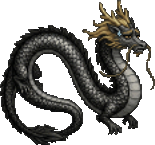
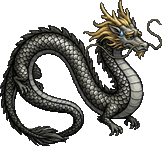
Eastern dragon: redrawn frames with full scales (B + hungry) and a full slither cycle by travelling sine wave over 16 slices

diff --git a/Assets/Scripts/Gameplay/Pet2DBody.cs b/Assets/Scripts/Gameplay/Pet2DBody.cs
@@ -108,8 +108,8 @@ namespace AdventureKing.Gameplay
                 {
                     float wave = Mathf.Sin(t * (moving ? 3.2f : 1.6f) + worldX * 1.6f);
                     lift = hungry ? 0.15f : HoverHeight + wave * (moving ? 0.24f : 0.1f);
-                    rot = hungry ? 0f : Mathf.Cos(t * (moving ? 3.2f : 1.6f) + worldX * 1.6f) * (moving ? 15f : 6f) * facing;
-                    sx = 1f + wave * 0.035f; sy = 1f - wave * 0.03f;
+                    rot = 0f; sx = 1f; sy = 1f;
+                    UpdateWave(hungry, moving, facing, t, worldX);          // the body slithers slice by slice
                     break;
                 }
                 default:
@@ -123,6 +123,42 @@ namespace AdventureKing.Gameplay
             Renderer.transform.localRotation = Quaternion.Euler(0f, 0f, rot);
             Renderer.transform.localScale = new Vector3(sx, sy, 1f);
             return lift;
+        }
+
+        // ---- Eastern dragon: the picture is cut into vertical slices (a runtime cut of the owner's sprite, nothing drawn) and a sine wave travels along the body: a full slither cycle
+        private const int WaveSlices = 16;
+        private Transform waveRoot;
+        private SpriteRenderer[] waveParts = new SpriteRenderer[0];
+        private Sprite waveSource;
+
+        private void UpdateWave(bool hungry, bool moving, int facing, float t, float worldX)
+        {
+            Sprite src = hungry && Hungry ? Hungry : Normal;
+            if (!src || !src.texture) { Renderer.enabled = true; return; }
+            if (waveSource != src)
+            {
+                if (waveRoot) Destroy(waveRoot.gameObject);
+                waveRoot = new GameObject("Wave").transform;
+                waveRoot.SetParent(Renderer.transform.parent, false);
+                Rect r = src.textureRect; float w = r.width / WaveSlices;
+                waveParts = new SpriteRenderer[WaveSlices];
+                for (int i = 0; i < WaveSlices; i++)
+                {
+                    var sp = Sprite.Create(src.texture, new Rect(r.x + i * w, r.y, w, r.height), new Vector2(0.5f, src.pivot.y / r.height), src.pixelsPerUnit, 0, SpriteMeshType.FullRect);
+                    var go = new GameObject("S" + i);
+                    go.transform.SetParent(waveRoot, false);
+                    go.transform.localPosition = new Vector3(((i + 0.5f) * w - src.pivot.x) / src.pixelsPerUnit, 0f, 0f);
+                    var sr = go.AddComponent<SpriteRenderer>();
+                    sr.sprite = sp; sr.sharedMaterial = Renderer.sharedMaterial; sr.sortingLayerID = Renderer.sortingLayerID; sr.sortingOrder = Renderer.sortingOrder;
+                    waveParts[i] = sr;
+                }
+                waveSource = src;
+            }
+            Renderer.enabled = false;
+            waveRoot.localScale = new Vector3(facing, 1f, 1f);
+            float amp = hungry ? 0.012f : moving ? 0.075f : 0.035f, speed = moving ? 5.5f : 2.4f;
+            for (int i = 0; i < waveParts.Length; i++)
+                waveParts[i].transform.localPosition = new Vector3(waveParts[i].transform.localPosition.x, Mathf.Sin(t * speed - i * 0.55f) * amp * (0.3f + 0.7f * i / (WaveSlices - 1f)), 0f);   // the tail swings more than the head
         }
     }
 }

diff --git a/Assets/Tests/PlayMode/PetMotionTests.cs b/Assets/Tests/PlayMode/PetMotionTests.cs
@@ -27,7 +27,7 @@ namespace AdventureKing.Tests.PlayMode
         public IEnumerator Pets_Walk_Fly_Or_Glide_And_Keep_Their_Relative_Sizes()
         {
             string[] ids = { "pet_chick", "pet_jade_dragon", "pet_fire_dragon", "pet_ember_tiger", "pet_night_horse", "pet_phoenix", "pet_war_dragon", "pet_ink_dragon" };
-            var pets = ids.Select((id, i) => Make(id, 2.5f + i * 1.6f)).ToDictionary(b => b.gameObject.name.Replace("_Visual2D", ""), b => b);
+            var pets = ids.Select((id, i) => Make(id, 2.5f + i * 1.6f + (i >= 6 ? 0.9f : 0f) + (i == 7 ? 1.0f : 0f))).ToDictionary(b => b.gameObject.name.Replace("_Visual2D", ""), b => b);
             foreach (Pet2DBody b in pets.Values) Assert.IsNotNull(b.Renderer.sprite, b.name + " has its picture");
 
             Assert.AreEqual(Pet2DBody.MoveStyle.Walk, pets["pet_jade_dragon"].Style, "baby dragons walk");
@@ -46,6 +46,11 @@ namespace AdventureKing.Tests.PlayMode
                 glideMin = Mathf.Min(glideMin, g); glideMax = Mathf.Max(glideMax, g);
                 yield return null;
             }
+            var wave = pets["pet_ink_dragon"].transform.Find("Wave");
+            Assert.IsNotNull(wave, "the Eastern dragon is cut into slices for the slither");
+            Assert.AreEqual(16, wave.childCount);
+            float y0 = wave.GetChild(15).localPosition.y; yield return new WaitForSeconds(0.25f); pets["pet_ink_dragon"].Animate(false, true, 0f, 0f, 1);
+            Assert.Greater(Mathf.Abs(y0 - wave.GetChild(15).localPosition.y), 0.0005f, "the wave travels along the body");
             Assert.AreEqual(0f, walkMax, 0.001f, "a walker stays on the ground");
             Assert.Greater(flyMin, 0.6f, "the flyer hovers well above the ground");
             Assert.Greater(glideMax - glideMin, 0.15f, "the Eastern dragon glides up and down in S waves");
@@ -63,8 +68,8 @@ namespace AdventureKing.Tests.PlayMode
             Directory.CreateDirectory("QA/Pets");
             var camGo = new GameObject("PetCam");
             var cam = camGo.AddComponent<Camera>();
-            cam.orthographic = true; cam.orthographicSize = 2.5f; cam.clearFlags = CameraClearFlags.SolidColor; cam.backgroundColor = new Color(0.28f, 0.3f, 0.42f);
-            camGo.transform.position = new Vector3(7.7f, 1.6f, -10f);
+            cam.orthographic = true; cam.orthographicSize = 3.1f; cam.clearFlags = CameraClearFlags.SolidColor; cam.backgroundColor = new Color(0.28f, 0.3f, 0.42f);
+            camGo.transform.position = new Vector3(9.4f, 2.0f, -10f);
             GameObject heroGo = Object.Instantiate(Resources.Load<GameObject>("Chibi2D/Mage_Visual2D"));
             heroGo.transform.position = new Vector3(1.1f, 0f, 0f);
             foreach (Pet2DBody b in pets.Values) b.transform.position += new Vector3(1.0f, 0f, 0f);
